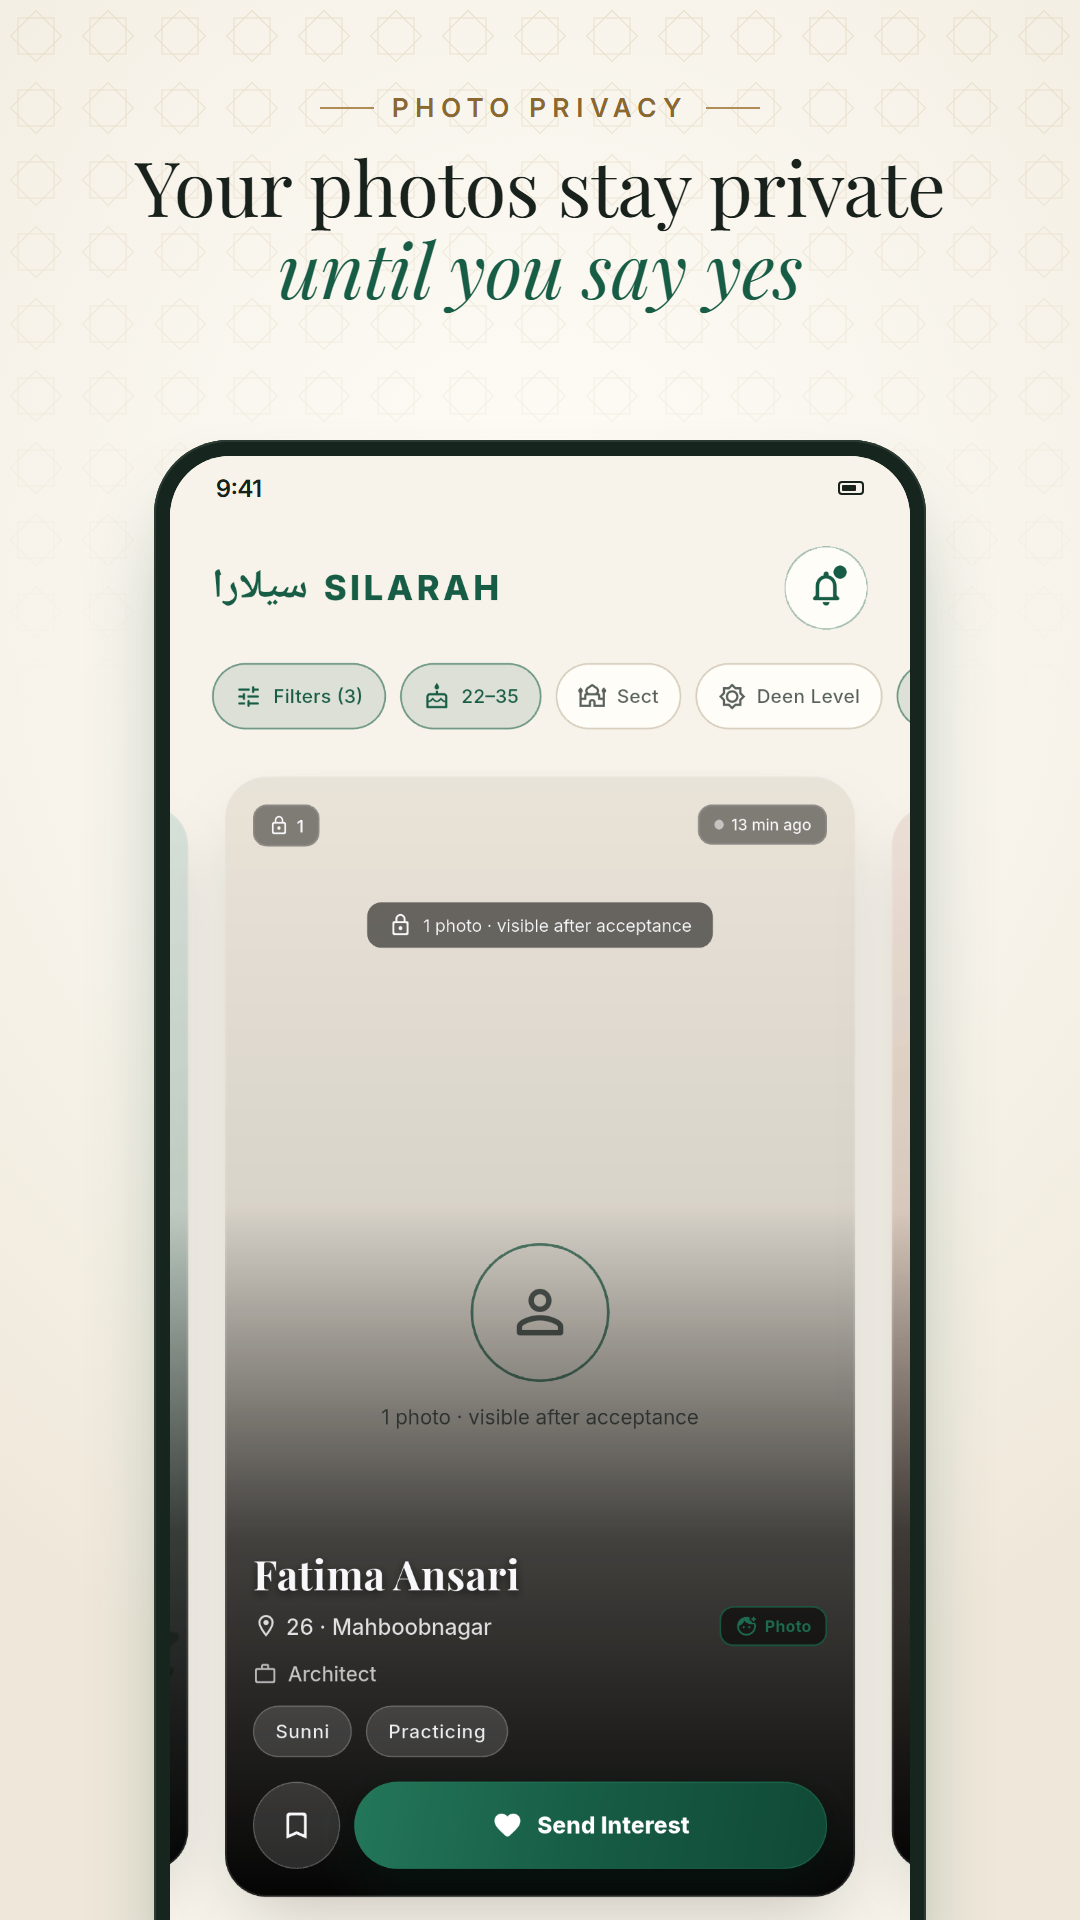
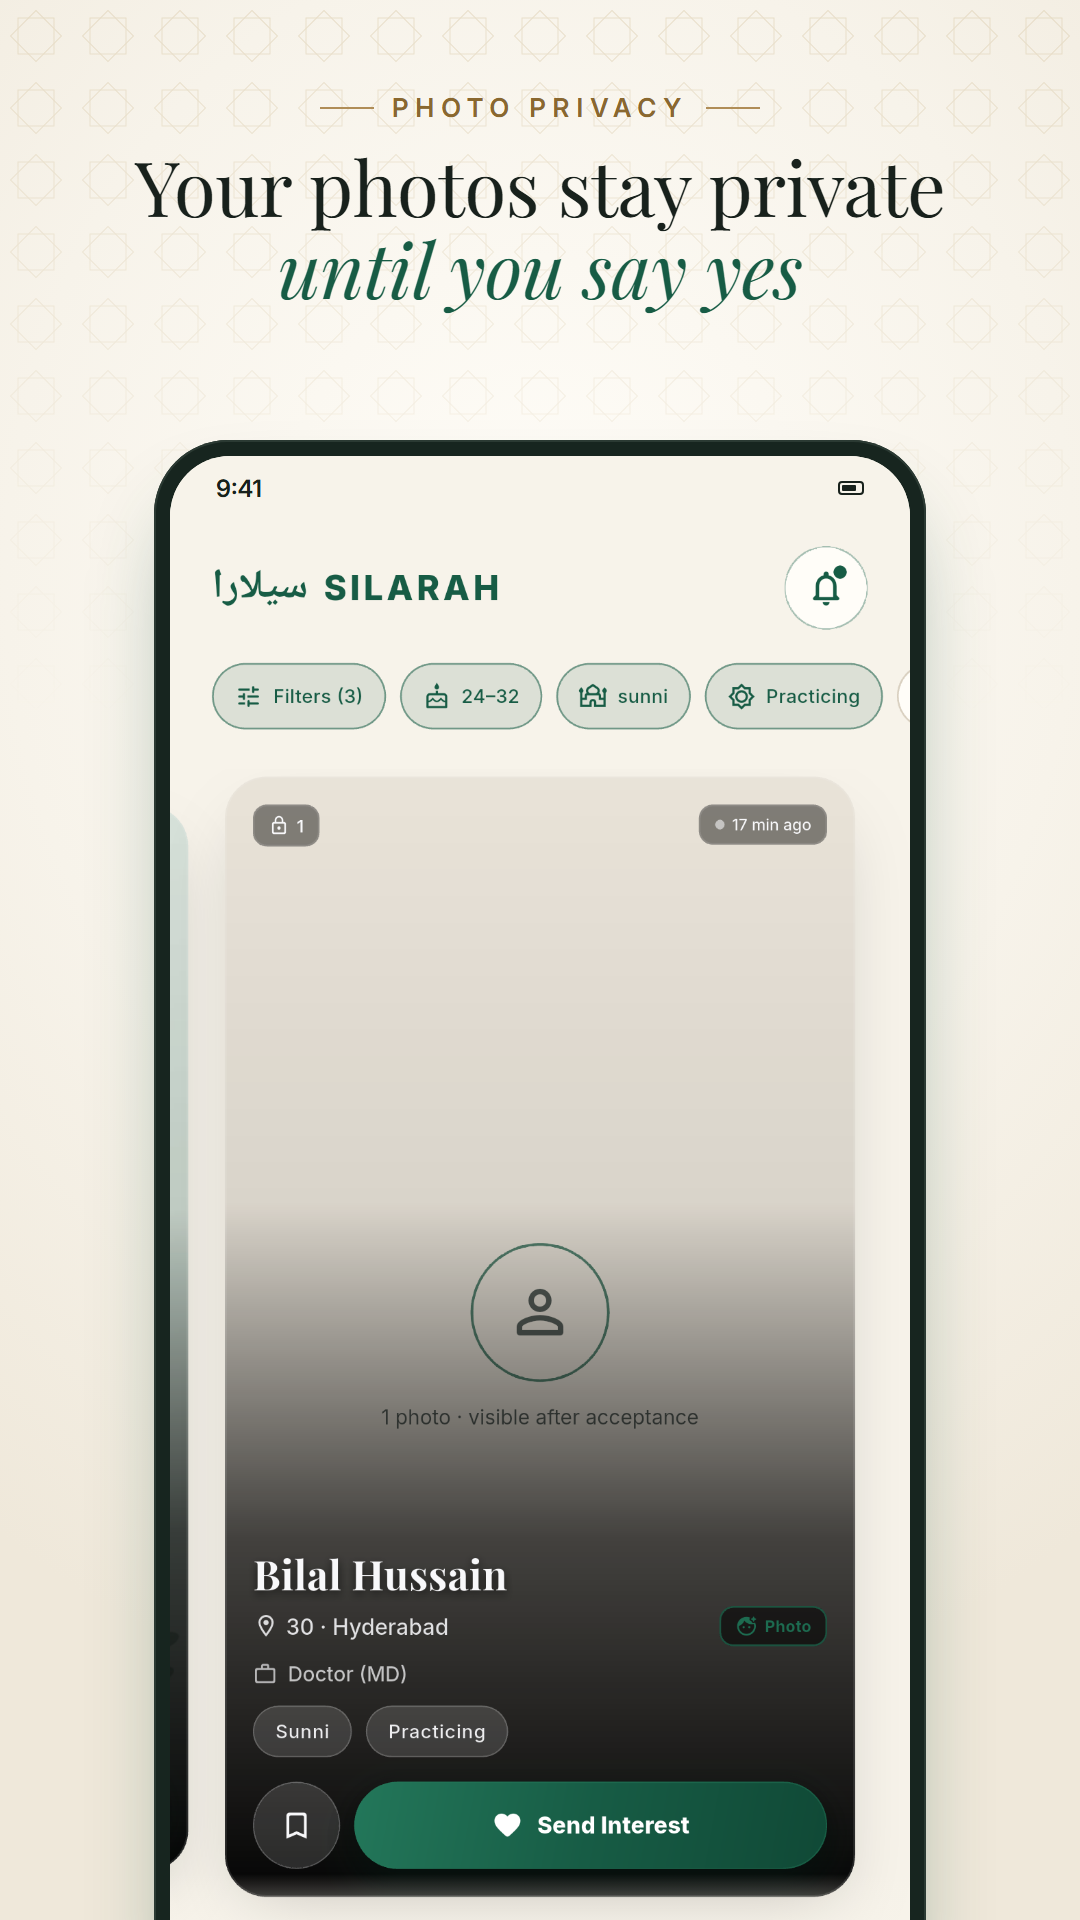
release: sharper Play screenshots 2-5
Recaptured with a fuller demo: the locked-photo card shows its caption
once (after the duplicate-label fix), the verified profile shows 12 of 12
preferences aligning instead of 1 of 1, the details shot is a man's
profile so it matches the women-first story, and the wali shot shows
Guardian Mode switched on with a guardian and reply permission. A soft
fade hides half-cut buttons at the bottom of each phone frame. Demo
members and the reviewer's temporary Premium were removed afterwards.

diff --git a/release/play-store/screenshots/frame.html b/release/play-store/screenshots/frame.html
@@ -76,11 +76,11 @@
 <script>
   // crop: pixels of the 1080 x 2400 capture hidden at the top (status bar, empty sheet edge).
   const shots = {
-    1: { img: 'discover_ayesha', crop: 110, eyebrow: 'Muslim Matrimony', title: 'Find your life partner<br><em>for nikah</em>' },
-    2: { img: 'private_fatima', crop: 110, eyebrow: 'Photo privacy', title: 'Your photos stay private<br><em>until you say yes</em>' },
-    3: { img: 'profile_top', crop: 110, eyebrow: 'Photo verification', title: 'Verified profiles,<br><em>honest insights</em>' },
-    4: { img: 'profile_details', crop: 250, eyebrow: 'Serious introductions', title: 'Know their deen,<br><em>family and goals</em>' },
-    5: { img: 'privacy', crop: 110, eyebrow: 'Wali mode', title: 'Family involved,<br><em>privacy protected</em>' },
+    1: { img: 'discover_ayesha', crop: 110, fade: 110, eyebrow: 'Muslim Matrimony', title: 'Find your life partner<br><em>for nikah</em>' },
+    2: { img: 'private_bilal', crop: 110, fade: 110, eyebrow: 'Photo privacy', title: 'Your photos stay private<br><em>until you say yes</em>' },
+    3: { img: 'profile_ahmed', crop: 110, fade: 200, eyebrow: 'Photo verification', title: 'Verified profiles,<br><em>honest insights</em>' },
+    4: { img: 'details_ahmed', crop: 240, fade: 330, eyebrow: 'Serious introductions', title: 'Know their deen,<br><em>family and goals</em>' },
+    5: { img: 'wali_on', crop: 110, fade: 160, eyebrow: 'Wali mode', title: 'Family involved,<br><em>privacy protected</em>' },
     6: { img: 'filters', crop: 185, eyebrow: 'Smart search', title: 'Search by sect, family<br><em>and trust checks</em>' },
     8: { img: 'chat', crop: 110, eyebrow: 'Interest first, then chat', title: 'Talk with respect,<br><em>families included</em>' },
   };
@@ -93,6 +93,9 @@
   // The drawn status bar covers the top 64 px; the capture starts right below it.
   screen.style.backgroundPosition = `0 ${64 - s.crop * scale}px`;
   if (s.crop === 0) document.querySelector('.bar').style.display = 'none';
+  // Fade the bottom edge so a half-cut bottom bar never shows.
+  if (s.fade) screen.insertAdjacentHTML('beforeend',
+    `<div style="position:absolute;left:0;right:0;bottom:0;height:${s.fade}px;background:linear-gradient(to bottom,rgba(247,243,234,0),#F7F3EA 85%)"></div>`);
 
   // Shot 7: the same Settings screen in three themes, fanned out.
   if (location.hash === '#7') {
